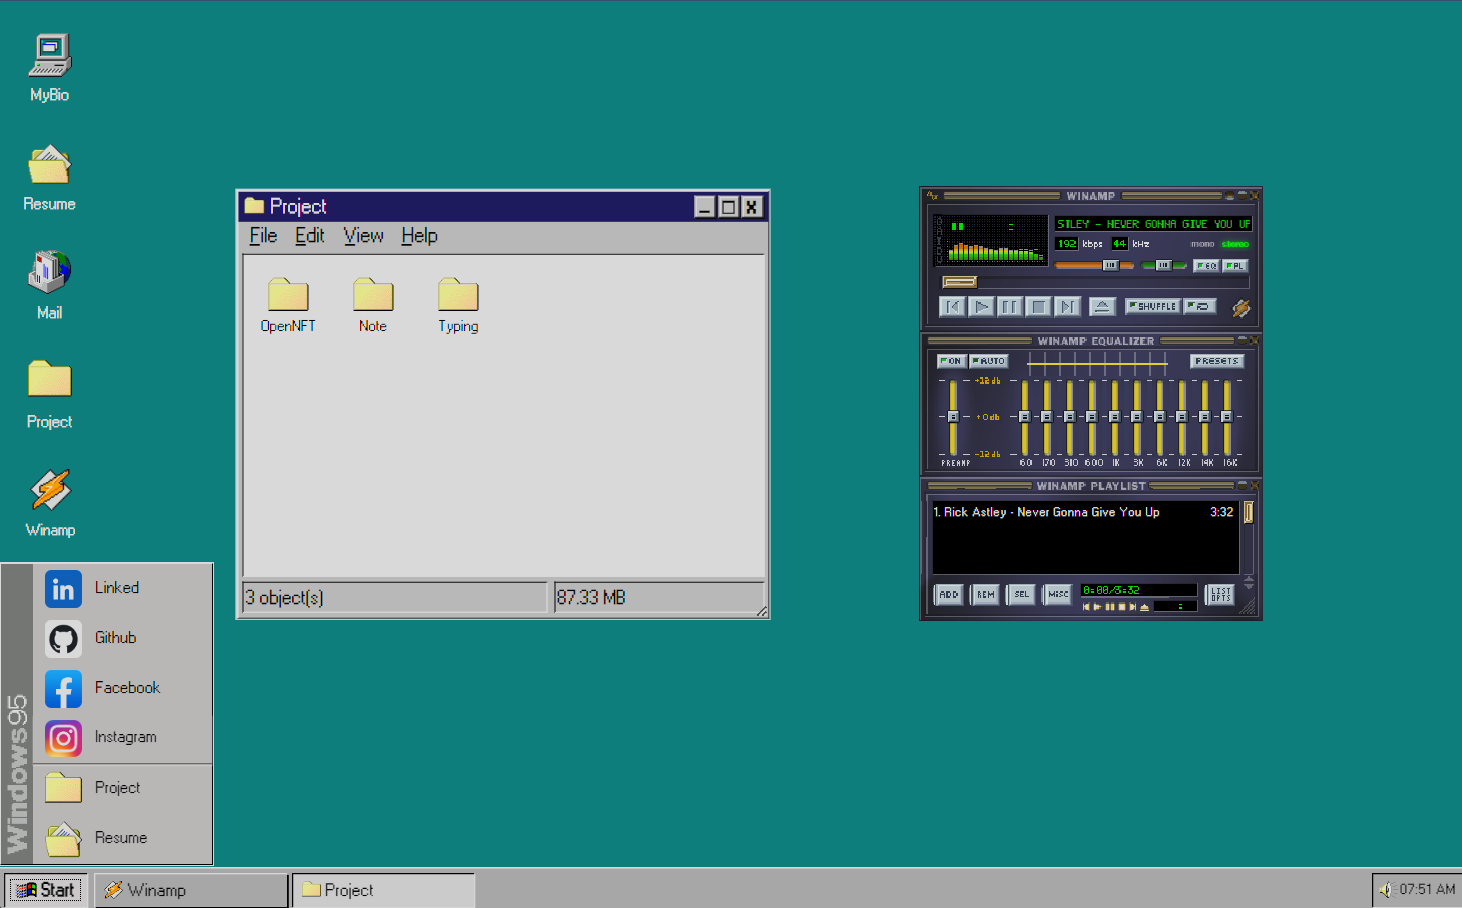
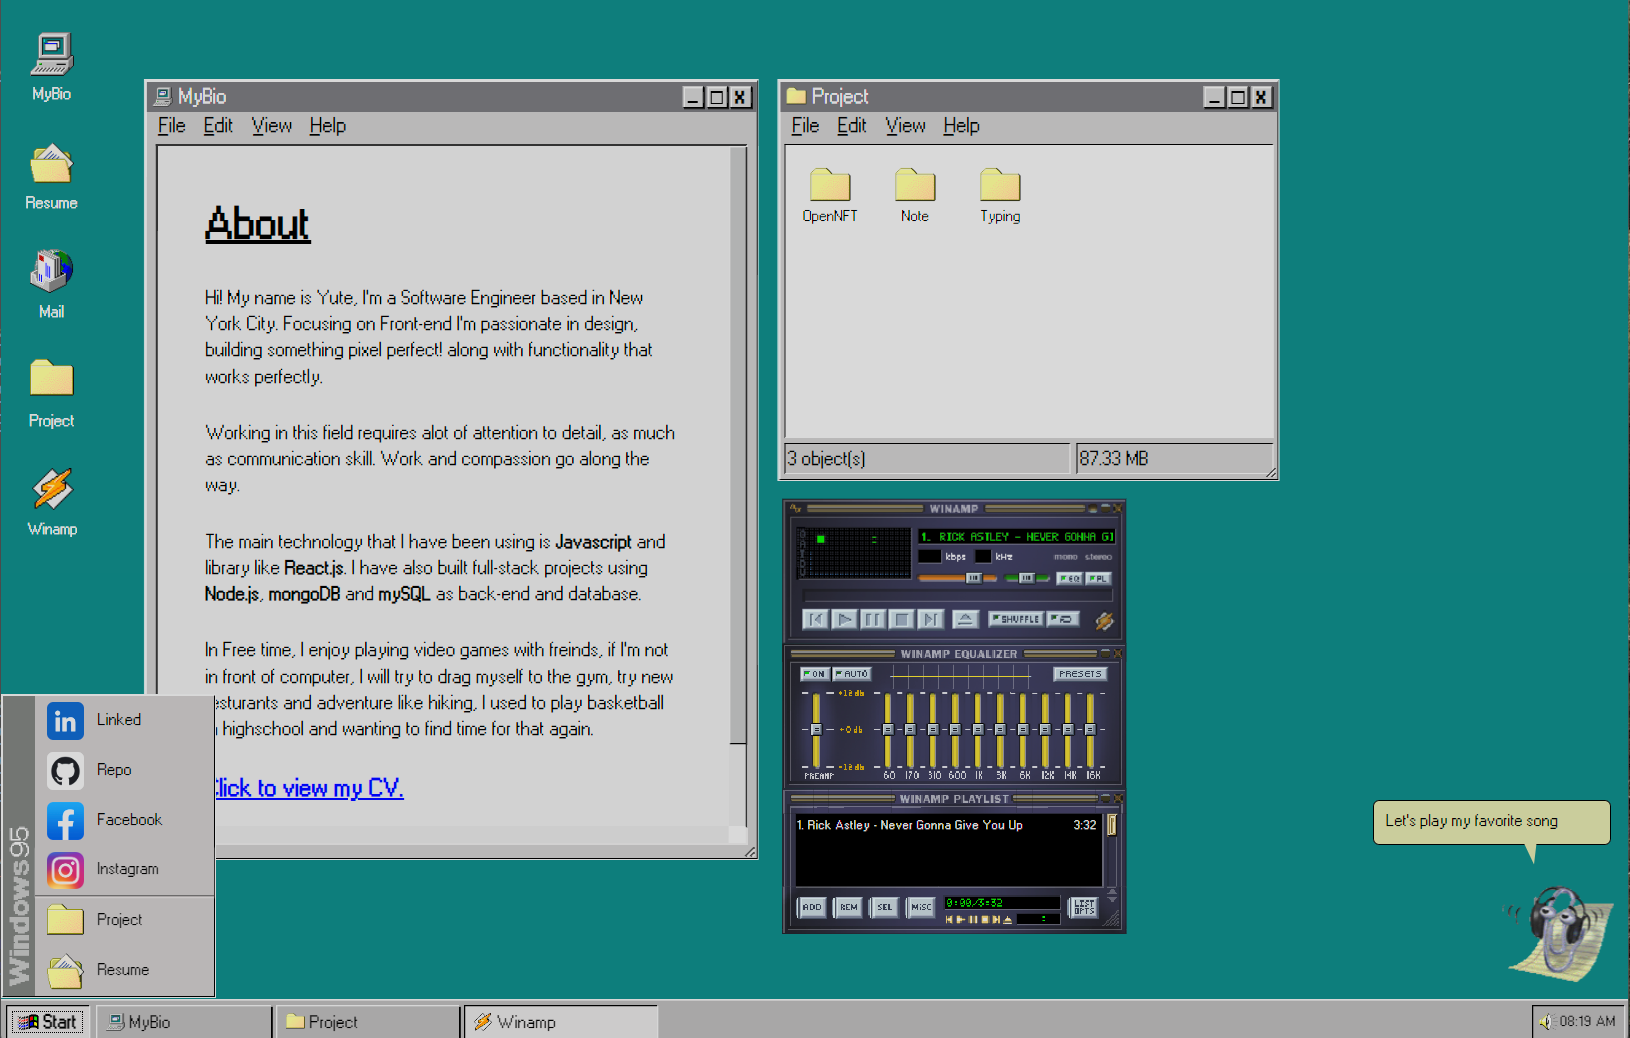
.

diff --git a/src/App.jsx b/src/App.jsx
@@ -557,6 +557,17 @@ function StyleHide(index) {
   }
 }
 
+function handleDoubleClickEnterLink(name) {
+
+    switch(name) {
+      case 'Nft': window.open('https://opennft.netlify.app/', '_blank'); break;
+      case 'Note': window.open('https://fullstack-stickynotes.netlify.app/', '_blank'); break;
+      case 'Type': window.open('https://yuteoctober.github.io/typingGame/', '_blank'); break;
+      case 'Github': window.open('https://github.com/Yuteoctober/wins95Portfolio/', '_blank'); break;
+      default: break; 
+    }
+}
+
 
 function handleDoubleTapEnterMobile(name) {
   const now = Date.now();
@@ -565,6 +576,7 @@ function handleDoubleTapEnterMobile(name) {
       case 'Nft': window.open('https://opennft.netlify.app/', '_blank'); break;
       case 'Note': window.open('https://fullstack-stickynotes.netlify.app/', '_blank'); break;
       case 'Type': window.open('https://yuteoctober.github.io/typingGame/', '_blank'); break;
+      case 'Github': window.open('https://github.com/Yuteoctober/wins95Portfolio/', '_blank'); break;
       default: break; 
     }
   }
@@ -632,55 +644,6 @@ function handleDoubleTapEnterMobile(name) {
     handleClippyFunction(setClippySong, ClearTOSongfunction, allSetters);
   }
   
-  
-  
-
-  // function clippyThanksYouFunction() {
-  //   clearTimeout(ClearTOclippyThanksYouFunction.current)
-  //   if (RandomTimeoutShowClippy) clearTimeout(RandomTimeoutShowClippy.current);
-  //   if (firstTimoutShowclippy) clearTimeout(firstTimoutShowclippy.current);
-  //   if (SecondRandomTimeoutShowClippy) clearTimeout(SecondRandomTimeoutShowClippy.current);
-  //   setClippyThanks(true);
-  //   setShowClippy(true);
-  //   ClearTOclippyThanksYouFunction.current = setTimeout(() => {
-  //     setClippyThanks(false);
-  //     setShowClippy(false);
-  //     setRandomClippyPopup(prev => !prev)
-  //   }, 8000);
-
-  // }
-
-  // function clippySendemailfunction() {
-  //   clearTimeout(ClearTOclippySendemailfunction.current)
-  //   if (RandomTimeoutShowClippy) clearTimeout(RandomTimeoutShowClippy.current);
-  //   if (firstTimoutShowclippy) clearTimeout(firstTimoutShowclippy.current);
-  //   if (SecondRandomTimeoutShowClippy) clearTimeout(SecondRandomTimeoutShowClippy.current);
-  //   setClippySendemail(true);
-  //   console.log('hello')
-  //   setShowClippy(true);
-  //   ClearTOclippySendemailfunction.current = setTimeout(() => {
-  //     setClippySendemail(false);
-  //     setShowClippy(false);
-  //     setRandomClippyPopup(prev => !prev)
-
-  //   }, 8000);
-  // }
-
-  // function clippySongFunction() {
-  //   clearTimeout(ClearTOSongfunction.current)
-  //   if (RandomTimeoutShowClippy) clearTimeout(RandomTimeoutShowClippy.current);
-  //   if (firstTimoutShowclippy) clearTimeout(firstTimoutShowclippy.current);
-  //   if (SecondRandomTimeoutShowClippy) clearTimeout(SecondRandomTimeoutShowClippy.current);
-  //   setClippySong(true);
-  //   console.log('hello')
-  //   setShowClippy(true);
-  //   ClearTOSongfunction.current = setTimeout(() => {
-  //     setClippySong(false);
-  //     setShowClippy(false);
-  //     setRandomClippyPopup(prev => !prev)
-
-  //   }, 8000);
-  // }
 
 
 
@@ -714,6 +677,7 @@ const imageMapping = { // map json with import images
     NoteExpand, setNoteExpand,
     TypeExpand, setTypeExpand,
     handleDoubleTapEnterMobile,
+    handleDoubleClickEnterLink,
     WinampExpand, setWinampExpand,
     showClippy, setShowClippy,
     clippyIndex, setClippyIndex,

diff --git a/src/components/Footer.jsx b/src/components/Footer.jsx
@@ -89,6 +89,9 @@ export default function Footer() {
         ClearTOSongfunction,
         clippySong,
         ClearTOdonttouch,
+        isTouchDevice,
+        handleDoubleClickEnterLink,
+        handleDoubleTapEnterMobile,
      } = useContext(UseContext);
     
      const handleWheelScroll = (e) => { // wheel from x to Y on tap
@@ -395,9 +398,11 @@ export default function Footer() {
                         <img src={linked} alt="linked" style={{ borderRadius: '5px' }} />
                         <span>Linked</span>
                     </div>
-                    <div className="ghithub">
+                    <div className="ghithub"
+                        onClick={() => handleDoubleClickEnterLink('Github')}
+                    >
                         <img src={github} alt="github" style={{ borderRadius: '5px' }} />
-                        <span>Github</span>
+                        <span>Repo</span>
                     </div>
                     <div className="facebook">
                         <img src={facebook} alt="facebook" style={{ borderRadius: '5px' }} />

diff --git a/src/components/NoteFolder.jsx b/src/components/NoteFolder.jsx
@@ -25,6 +25,7 @@ function NoteFolder() {
     isTouchDevice,
     iconState, setIconState,
     handleDoubleTapEnterMobile,
+    handleDoubleClickEnterLink,
 
    } = useContext(UseContext);
 
@@ -184,7 +185,7 @@ function NoteFolder() {
           >
             <div className="item_container">
               <div className='item_1'
-                onDoubleClick={ !isTouchDevice? () => window.open('https://fullstack-stickynotes.netlify.app/', '_blank') : undefined}
+                onDoubleClick={ !isTouchDevice? () => handleDoubleClickEnterLink('Note') : undefined} 
                 onTouchEnd={() => handleDoubleTapEnterMobile('Note')}
                 onClick={(e) => {
                   e.stopPropagation();

diff --git a/src/components/TypeFolder.jsx b/src/components/TypeFolder.jsx
@@ -25,6 +25,7 @@ function TypeFolder() {
     isTouchDevice,
     iconState, setIconState,
     handleDoubleTapEnterMobile,
+    handleDoubleClickEnterLink,
 
    } = useContext(UseContext);
 
@@ -184,7 +185,7 @@ function TypeFolder() {
           >
             <div className="item_container">
               <div className='item_1'
-                onDoubleClick={ !isTouchDevice ? () => window.open('https://yuteoctober.github.io/typingGame/', '_blank'): undefined}
+                onDoubleClick={ !isTouchDevice ? () => handleDoubleClickEnterLink('Type'): undefined}
                 onTouchEnd={() => handleDoubleTapEnterMobile('Type')}
                 onClick={(e) => {
                   e.stopPropagation();

diff --git a/src/components/NftFolder.jsx b/src/components/NftFolder.jsx
@@ -25,6 +25,7 @@ function NftFolder() {
     isTouchDevice,
     iconState, setIconState,
     handleDoubleTapEnterMobile,
+    handleDoubleClickEnterLink,
 
    } = useContext(UseContext);
 
@@ -184,7 +185,7 @@ function NftFolder() {
           >
             <div className="item_container">
               <div className='item_1'
-                onDoubleClick={ !isTouchDevice ?() => window.open('https://opennft.netlify.app/', '_blank'): undefined} 
+                onDoubleClick={ !isTouchDevice ?() => handleDoubleClickEnterLink('Nft'): undefined} 
                 onTouchEnd={() => handleDoubleTapEnterMobile('Nft')}
                 onClick={(e) => {
                   e.stopPropagation();

diff --git a/README.md b/README.md
@@ -1,4 +1,4 @@
-Windows 95 Portfolio (Still working in progress)
+Windows 95 Portfolio (Mostly dont! but still need to refactor the code and clean up)
 
 Live Demo: https://yuteoctober.github.io/wins95Portfolio/
 
@@ -6,7 +6,7 @@ Live Demo: https://yuteoctober.github.io/wins95Portfolio/
 
 React Project:
   - inspred by other web windows 95 portfolio including actual windows 95
-  - everything built by me from scratch (using CSS)
+  - everything built by me from scratch (No style component!)
 
 Functionality (imitaing windows 95 functionality)
   - Drag and Drop
